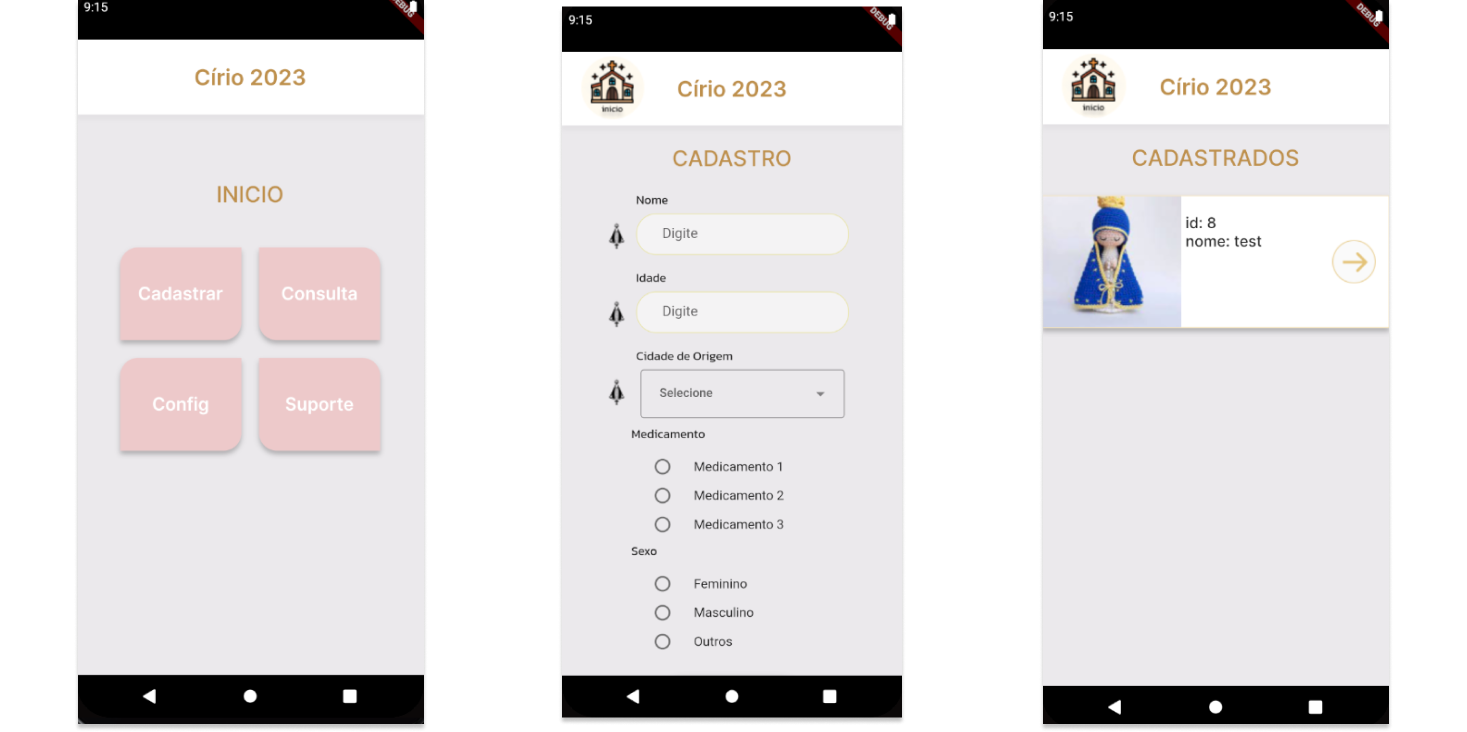
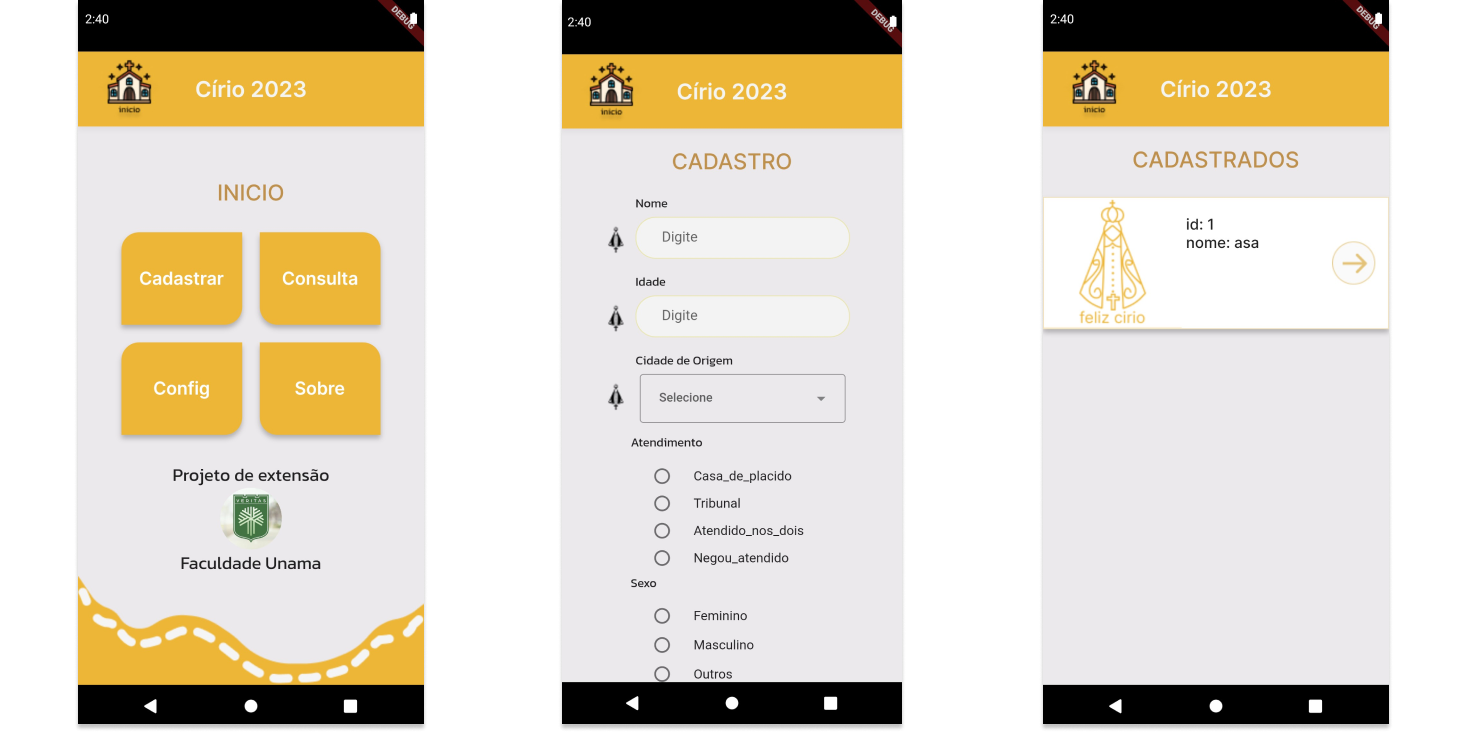
up dados

diff --git a/README.md b/README.md
@@ -1,5 +1,6 @@
 # Projeto Cirio 2023 - Aplicativo de Cadastro de Participantes
 
+![Cirio 2023](/images_readme/image_3.png)
 ![Cirio 2023](/images_readme/imagem_cirio_2023.png)
 
 ## Acesso rapido
@@ -42,6 +43,7 @@ Agradecemos por seu interesse no **Projeto Cirio 2023**. Juntos, podemos tornar 
 **Divirta-se cadastrando e compartilhando momentos inesquecíveis no Cirio 2023!**
 
 ## Colaboradores
+
 - [@Marco Antonio](https://github.com/marco0antonio0)
 - [@Alexsandro Fernandes Nascimento](https://github.com/AlexsandroFernandesNascimento)
 - [@Jean Arthur Costa Dias](https://github.com/JeanArthurCostaDias)
